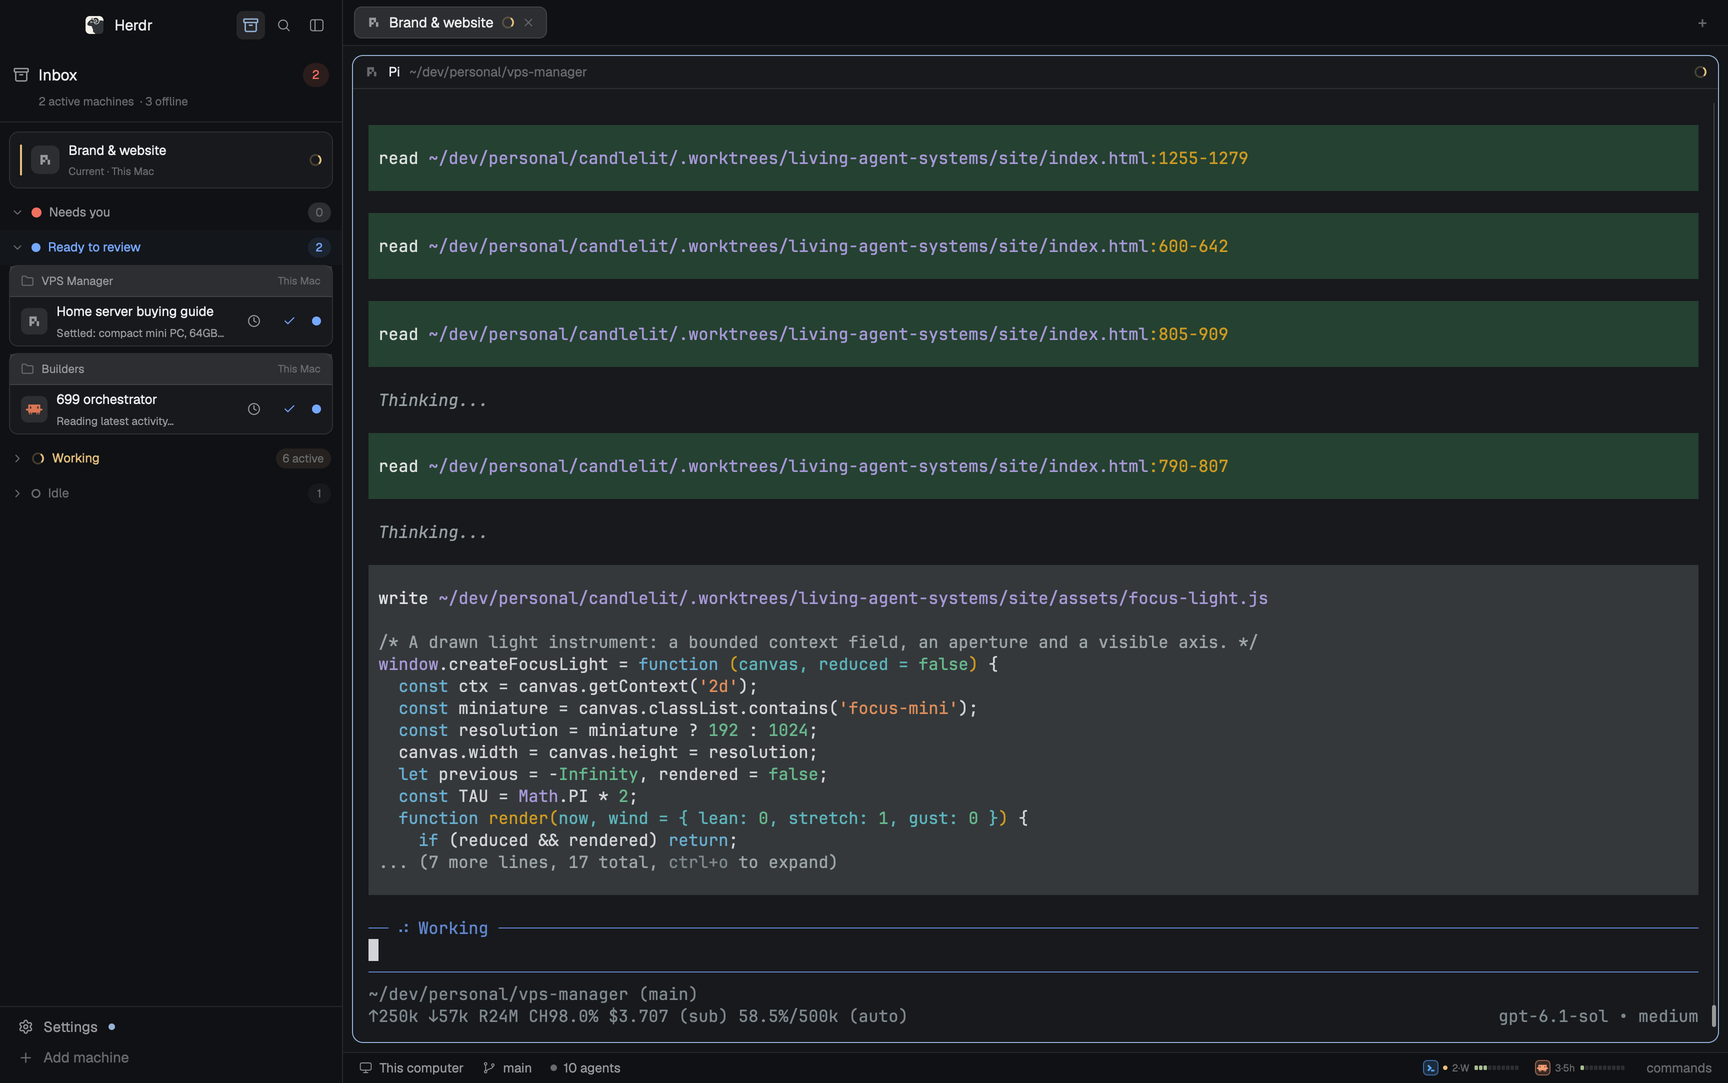
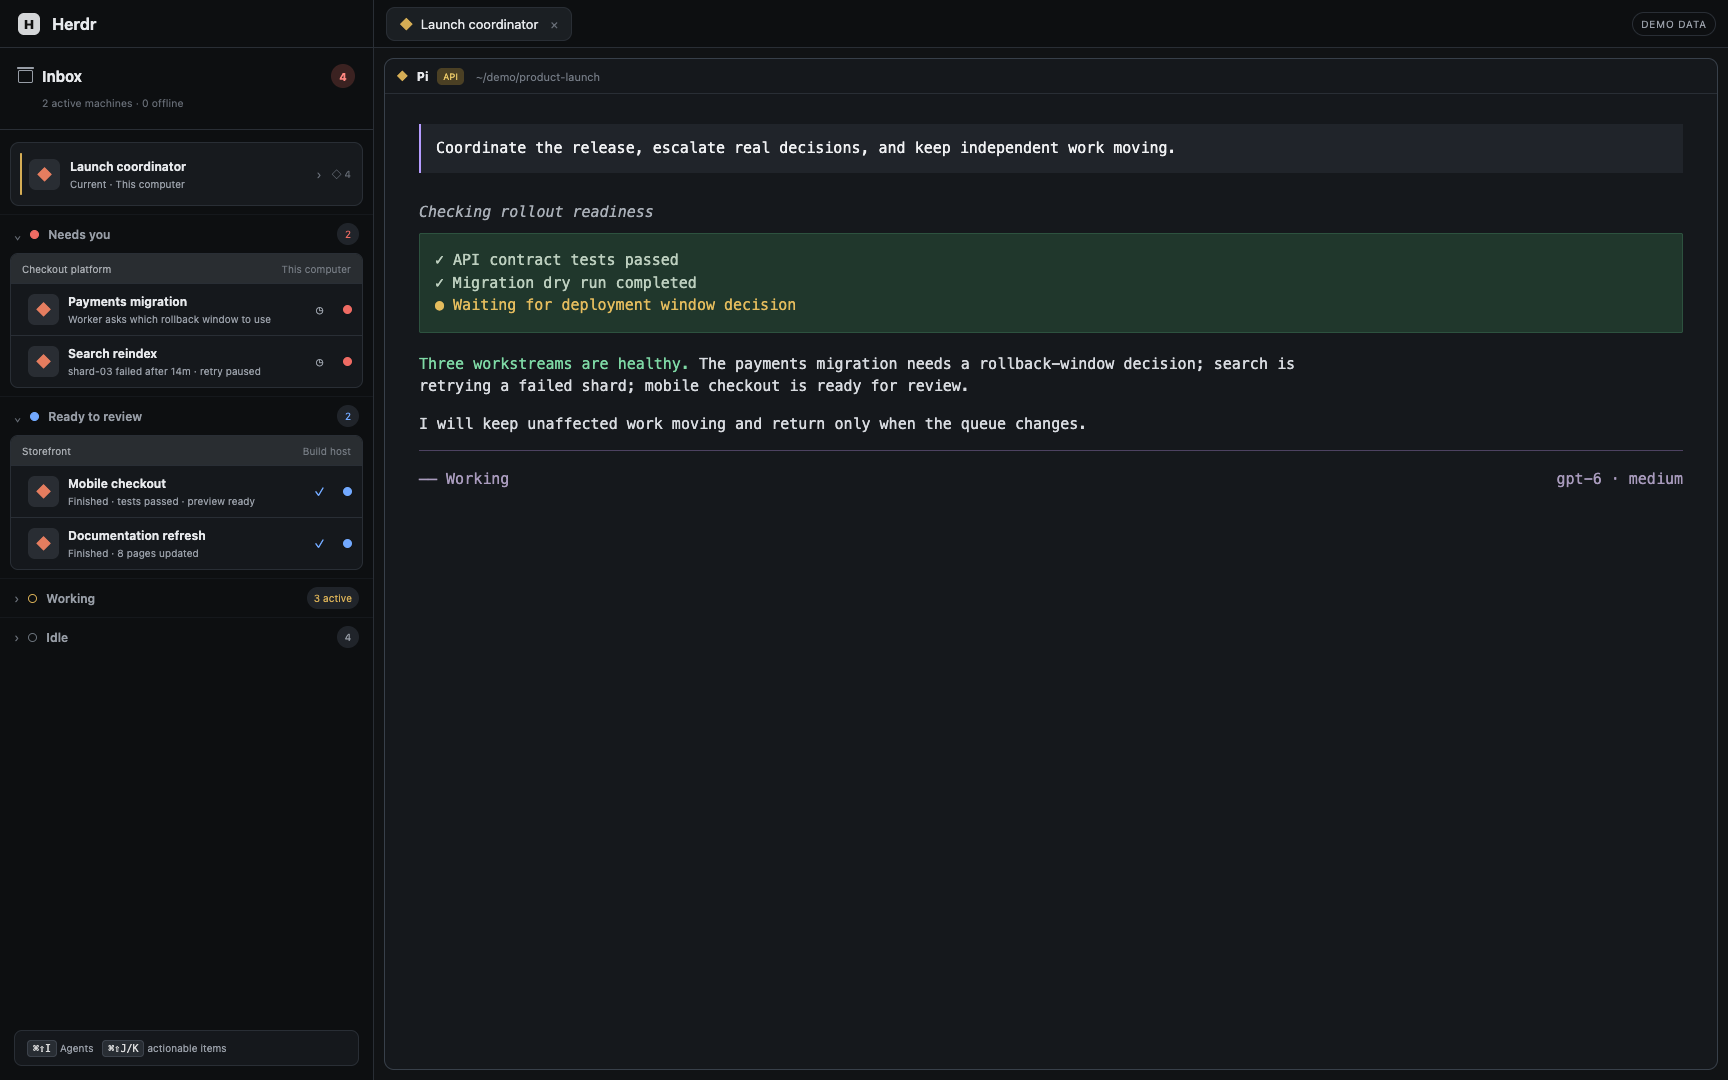
docs: add synthetic state gallery

diff --git a/art/demo.html b/art/demo.html
@@ -1,0 +1,26 @@
+<!doctype html>
+<html lang="en">
+<head>
+<meta charset="utf-8">
+<meta name="viewport" content="width=device-width,initial-scale=1">
+<title>Herdr Orchestrator Inbox — demo</title>
+<style>
+:root{--bg:#111315;--chrome:#0d0f11;--surface:#171a1e;--raised:#20242a;--border:#292e35;--line:#343a43;--fg:#e7e9ec;--muted:#979da6;--dim:#656b74;--red:#ef6b63;--blue:#72a9ff;--amber:#d5ad55;--green:#66c38f;--violet:#b59cff;--sidebar:374px}*{box-sizing:border-box}html,body{margin:0;width:100%;height:100%;overflow:hidden;background:#090a0c;color:var(--fg);font-family:Inter,-apple-system,BlinkMacSystemFont,"Segoe UI",sans-serif}.app{width:1728px;height:1080px;background:var(--bg);display:grid;grid-template-columns:var(--sidebar) 1fr;grid-template-rows:48px 1fr;box-shadow:0 30px 100px #000}.top-left,.top{background:var(--chrome);border-bottom:1px solid var(--border);display:flex;align-items:center}.top-left{padding:0 18px;gap:12px;border-right:1px solid var(--border)}.brand-mark{width:22px;height:22px;border-radius:6px;background:#d4d6d8;color:#111;display:grid;place-items:center;font-weight:900;font-size:13px}.brand{font-weight:650}.top{padding:0 12px;gap:8px}.tab{height:34px;padding:0 13px;border:1px solid var(--border);background:#1b1f23;border-radius:9px;display:flex;align-items:center;gap:8px;font-size:13px}.tab-icon{color:var(--amber)}.tab-close{color:var(--dim);margin-left:4px}.top-spacer{flex:1}.demo-pill{font-size:10px;letter-spacing:.08em;text-transform:uppercase;color:var(--muted);border:1px solid var(--border);border-radius:999px;padding:5px 8px}.sidebar{grid-column:1;grid-row:2;background:var(--chrome);border-right:1px solid var(--border);min-height:0;display:flex;flex-direction:column;position:relative}.inbox-head{height:82px;padding:16px 18px 12px;border-bottom:1px solid var(--border)}.head-row{display:flex;align-items:center}.head-title{display:flex;align-items:center;gap:9px;font-weight:650;font-size:15px}.archive{width:15px;height:13px;border:1.5px solid var(--muted);border-radius:2px;position:relative}.archive:before{content:"";position:absolute;left:-2px;right:-2px;top:-4px;height:2px;background:var(--muted);border-radius:2px}.attention-total{margin-left:auto;min-width:24px;height:24px;border-radius:12px;background:#3b2221;color:#ff8881;display:grid;place-items:center;font-size:11px;font-weight:700}.machine-count{margin:9px 0 0 24px;font-size:10.5px;color:var(--dim)}.current{margin:12px 10px 8px;height:64px;border:1px solid var(--border);border-radius:9px;background:#171a1e;display:flex;align-items:center;padding:0 11px;gap:10px;position:relative}.current:before{content:"";position:absolute;left:9px;top:10px;bottom:10px;width:2px;border-radius:2px;background:var(--amber)}.agent-icon{width:31px;height:31px;border-radius:7px;background:#292d33;display:grid;place-items:center;margin-left:7px;color:#e57d5f;font-size:15px;flex:0 0 auto}.row-copy{min-width:0;flex:1}.row-title{font-size:12px;font-weight:650;white-space:nowrap;overflow:hidden;text-overflow:ellipsis}.row-sub{font-size:10px;color:var(--muted);margin-top:4px;white-space:nowrap;overflow:hidden;text-overflow:ellipsis}.chev{color:var(--dim);font-size:12px}.child-count{font-size:10px;color:var(--dim);display:flex;align-items:center;gap:4px}.section{border-top:1px solid #15181c}.section-head{height:38px;padding:0 14px;display:flex;align-items:center;gap:9px;color:var(--muted);font-size:12px}.section-head strong{font-weight:600}.section-head .count{margin-left:auto;min-width:22px;height:22px;padding:0 7px;border-radius:11px;background:var(--raised);display:grid;place-items:center;font-size:10px}.dot{width:9px;height:9px;border-radius:50%;border:1.5px solid currentColor;flex:0 0 auto}.dot.fill{background:currentColor}.red{color:var(--red)}.blue{color:var(--blue)}.amber{color:var(--amber)}.idle{color:#69717a}.group{margin:0 10px 8px;border:1px solid var(--border);border-radius:8px;overflow:hidden;background:#15181c}.group-label{height:29px;background:#292d31;padding:0 11px;display:flex;align-items:center;font-size:10px;color:#a7abb0}.group-machine{margin-left:auto;color:#747a82}.agent-row{height:52px;padding:0 10px;display:flex;align-items:center;gap:9px;border-top:1px solid var(--border);position:relative}.agent-row:first-of-type{border-top:0}.status-action{width:25px;height:25px;border-radius:6px;display:grid;place-items:center;color:var(--muted);border:1px solid transparent;font-size:12px}.status-action.review{color:var(--blue)}.status-action.clock:before{content:"◷"}.status-action.review:before{content:"✓"}.status-dot{width:9px;height:9px;border-radius:50%;background:currentColor;margin-left:2px}.collapsed-note{font-size:10px;color:var(--dim);margin-left:auto}.children{margin:0 10px 9px 53px;border-left:1px solid var(--line)}.child{height:35px;display:flex;align-items:center;gap:8px;padding:0 9px;color:var(--muted);font-size:10.5px;position:relative}.child:before{content:"";position:absolute;left:-1px;top:17px;width:10px;border-top:1px solid var(--line)}.child .dot{width:7px;height:7px}.terminal{grid-column:2;grid-row:2;min-width:0;background:#111315;padding:10px}.pane{height:100%;border:1px solid #38404a;border-radius:10px;overflow:hidden;background:#15181c;display:flex;flex-direction:column}.pane-head{height:35px;border-bottom:1px solid var(--border);display:flex;align-items:center;padding:0 12px;gap:9px;font-size:11px;color:var(--muted)}.pane-head strong{color:var(--fg);font-size:12px}.api{font-size:9px;background:#4b4024;color:#e8c766;border-radius:5px;padding:3px 6px}.path{margin-left:3px;color:#727983}.pane-body{flex:1;padding:30px 34px 22px;font-family:"SFMono-Regular",Consolas,"Liberation Mono",monospace;font-size:15px;line-height:1.5;color:#d8dbe0;overflow:hidden}.prompt{border-left:2px solid var(--violet);background:#20242a;padding:13px 15px;margin-bottom:28px;color:#f0f1f3}.tool-label{font-style:italic;color:#a9afb7;margin:22px 0 10px}.tool{background:#20372c;border:1px solid #2d523f;border-radius:2px;padding:15px;margin:0 0 18px;color:#bdcfbf}.success{color:#7ed9a5}.accent{color:#bfa7ff}.warn{color:#e4bc5d}.terminal-copy{margin-top:20px;max-width:910px}.terminal-copy p{margin:0 0 15px}.terminal-footer{margin-top:auto;border-top:1px solid #4d4261;color:#a99bbd;padding-top:17px;display:flex;justify-content:space-between}.retained{position:absolute;inset:0;background:#0008;display:grid;place-items:center}.dialog{width:1120px;height:760px;background:#111417;border:1px solid #424a55;border-radius:12px;box-shadow:0 30px 90px #000b;display:flex;flex-direction:column;overflow:hidden}.dialog-head{height:55px;border-bottom:1px solid var(--border);display:flex;align-items:center;padding:0 16px;gap:11px}.dialog-head .archive{margin-left:2px}.dialog-title{font-size:13px;font-weight:650}.dialog-sub{font-size:10px;color:var(--dim);margin-top:3px}.dialog-close{margin-left:auto;color:var(--muted);font-size:20px}.dialog-body{padding:22px 26px;font-family:"SFMono-Regular",Consolas,monospace;font-size:13px;line-height:1.55;color:#cfd3d8;white-space:pre-wrap}.agents-list{padding:12px 10px}.tree-space{font-size:10px;color:#6f757d;margin:16px 10px 8px}.tree-agent{height:39px;display:flex;align-items:center;gap:9px;padding:0 10px;border-radius:7px;color:#d7d9dd;font-size:11.5px}.tree-agent.selected{background:#24282e}.indent1{margin-left:22px}.indent2{margin-left:44px}.tree-line{width:9px;border-top:1px solid #454b53}.hint{margin:auto 14px 14px;padding:11px 12px;border:1px solid var(--border);border-radius:8px;background:#15181c;font-size:10px;color:var(--muted)}.hint kbd{background:#282d33;border:1px solid #3c424b;border-radius:4px;padding:2px 5px;color:#ddd}.action-menu{position:absolute;z-index:4;top:294px;right:18px;width:210px;background:#20242a;border:1px solid #464d57;border-radius:9px;box-shadow:0 16px 42px #000b;padding:6px}.action-menu:before{content:"";position:absolute;top:-6px;right:15px;width:10px;height:10px;background:#20242a;border-left:1px solid #464d57;border-top:1px solid #464d57;transform:rotate(45deg)}.menu-title{padding:7px 9px 5px;color:#717781;text-transform:uppercase;letter-spacing:.08em;font-size:9px}.menu-item{height:33px;border-radius:6px;display:flex;align-items:center;padding:0 9px;gap:9px;font-size:11px;color:#d6d9dd}.menu-item:first-of-type{background:#2b3037}.menu-icon{width:15px;color:#aeb4bc;text-align:center}.menu-shortcut{margin-left:auto;color:#737a84;font-size:9px}
+</style>
+</head>
+<body>
+<div class="app" id="app"></div>
+<script>
+const scene=new URLSearchParams(location.search).get('scene')||'inbox';
+const icon='<div class="agent-icon">◆</div>';
+const row=(title,sub,color,action='clock')=>`<div class="agent-row">${icon}<div class="row-copy"><div class="row-title">${title}</div><div class="row-sub">${sub}</div></div><div class="status-action ${action}"></div><span class="status-dot ${color}"></span></div>`;
+const shell=(sidebar,overlay='')=>`<div class="top-left"><div class="brand-mark">H</div><div class="brand">Herdr</div></div><div class="top"><div class="tab"><span class="tab-icon">◆</span> Launch coordinator <span class="tab-close">×</span></div><div class="top-spacer"></div><div class="demo-pill">Demo data</div></div>${sidebar}<main class="terminal"><div class="pane"><div class="pane-head"><span class="tab-icon">◆</span><strong>Pi</strong><span class="api">API</span><span class="path">~/demo/product-launch</span></div><div class="pane-body"><div class="prompt">Coordinate the release, escalate real decisions, and keep independent work moving.</div><div class="tool-label">Checking rollout readiness</div><div class="tool">✓ API contract tests passed<br>✓ Migration dry run completed<br><span class="warn">● Waiting for deployment window decision</span></div><div class="terminal-copy"><p><span class="success">Three workstreams are healthy.</span> The payments migration needs a rollback-window decision; search is retrying a failed shard; mobile checkout is ready for review.</p><p>I will keep unaffected work moving and return only when the queue changes.</p></div><div class="terminal-footer"><span>── Working</span><span>gpt-6 · medium</span></div></div></div></main>${overlay}`;
+function inbox(children=false){return `<aside class="sidebar"><div class="inbox-head"><div class="head-row"><div class="head-title"><span class="archive"></span>Inbox</div><div class="attention-total">4</div></div><div class="machine-count">2 active machines · 0 offline</div></div><div class="current">${icon}<div class="row-copy"><div class="row-title">Launch coordinator</div><div class="row-sub">Current · This computer</div></div><span class="chev">›</span><span class="child-count">◇ 4</span></div>${children?`<div class="children"><div class="child"><span class="dot fill amber"></span>api-contracts · working</div><div class="child"><span class="dot fill red"></span>payments-migration · blocked</div><div class="child"><span class="dot fill blue"></span>mobile-checkout · finished</div><div class="child"><span class="dot idle"></span>release-notes · idle</div></div>`:''}<section class="section"><div class="section-head"><span class="chev">⌄</span><span class="dot fill red"></span><strong>Needs you</strong><span class="count red">2</span></div><div class="group"><div class="group-label">Checkout platform <span class="group-machine">This computer</span></div>${row('Payments migration','Worker asks which rollback window to use','red')}${row('Search reindex','shard-03 failed after 14m · retry paused','red')}</div></section><section class="section"><div class="section-head"><span class="chev">⌄</span><span class="dot fill blue"></span><strong>Ready to review</strong><span class="count blue">2</span></div><div class="group"><div class="group-label">Storefront <span class="group-machine">Build host</span></div>${row('Mobile checkout','Finished · tests passed · preview ready','blue','review')}${row('Documentation refresh','Finished · 8 pages updated','blue','review')}</div></section><section class="section"><div class="section-head"><span class="chev">›</span><span class="dot amber"></span><strong>Working</strong><span class="count amber">3 active</span></div></section><section class="section"><div class="section-head"><span class="chev">›</span><span class="dot idle"></span><strong>Idle</strong><span class="count">4</span></div></section><div class="hint"><kbd>⌘⇧I</kbd> Agents &nbsp; <kbd>⌘⇧J/K</kbd> actionable items</div></aside>`}
+function agents(){return `<aside class="sidebar"><div class="inbox-head"><div class="head-row"><div class="head-title">◇ Agents</div></div><div class="machine-count">Managed terminal tree</div></div><div class="agents-list"><div class="tree-space">Checkout platform</div><div class="tree-agent selected"><span class="dot amber"></span>Launch coordinator</div><div class="tree-agent indent1"><span class="tree-line"></span><span class="dot amber"></span>api-contracts</div><div class="tree-agent indent1"><span class="tree-line"></span><span class="dot red fill"></span>payments-migration</div><div class="tree-agent indent2"><span class="tree-line"></span><span class="dot amber"></span>schema-check</div><div class="tree-agent indent1"><span class="tree-line"></span><span class="dot blue fill"></span>mobile-checkout</div><div class="tree-space">Operations</div><div class="tree-agent"><span class="dot amber"></span>Search reindex</div><div class="tree-agent indent1"><span class="tree-line"></span><span class="dot red fill"></span>shard-03</div></div><div class="hint"><kbd>⌘⇧I</kbd> Return to Inbox</div></aside>`}
+const overlay=`<div class="retained"><div class="dialog"><div class="dialog-head"><span class="archive"></span><div><div class="dialog-title">Mobile checkout</div><div class="dialog-sub">Retained session · demo/session-04</div></div><div class="dialog-close">×</div></div><div class="dialog-body"><span class="success">✓ Build completed</span>\n<span class="success">✓ 42 tests passed</span>\n<span class="success">✓ Preview deployed</span>\n\nChanged\n  src/checkout/payment-sheet.tsx\n  src/checkout/payment-sheet.test.tsx\n  docs/mobile-checkout.md\n\nReview notes\n  • Preserves the existing desktop flow\n  • Adds accessible mobile focus order\n  • No migration required\n\nReady for review.</div></div></div>`;
+const actions=`<div class="action-menu"><div class="menu-title">Handle this item</div><div class="menu-item"><span class="menu-icon">✓</span>Acknowledge<span class="menu-shortcut">until activity</span></div><div class="menu-item"><span class="menu-icon">◷</span>Snooze<span class="menu-shortcut">5 minutes</span></div><div class="menu-item"><span class="menu-icon">◷</span>Snooze<span class="menu-shortcut">1 hour</span></div><div class="menu-item"><span class="menu-icon">↗</span>Open without handling</div></div>`;
+const actionSidebar=inbox(false).replace('</aside>',actions+'</aside>');
+app.innerHTML=scene==='agents'?shell(agents()):scene==='retained'?shell(inbox(false),overlay):scene==='actions'?shell(actionSidebar):shell(inbox(scene==='children'));
+</script>
+</body>
+</html>

diff --git a/README.md b/README.md
@@ -2,7 +2,9 @@
 
 A terminal-first Herdr layout for supervising root orchestrators as an attention queue.
 
-![Herdr Orchestrator Inbox](preview.png)
+![Herdr Orchestrator Inbox showing every root queue state with synthetic demo data](preview.png)
+
+> All screenshots use synthetic names, paths, tasks, and terminal output. They demonstrate product states without exposing a real Herdr workspace.
 
 The Inbox answers two questions quickly: **why does this need me?** and **how do I clear it?** Root orchestrators appear under Needs you, Ready to review, Working, or Idle. Managed children stay nested beneath their root instead of becoming peer queue items.
 
@@ -18,9 +20,19 @@ The Inbox answers two questions quickly: **why does this need me?** and **how do
 - `⌘⇧J` / `⌘⇧K` cycle only actionable Inbox roots
 - Compact rail when the Herdr sidebar is collapsed
 
-<picture>
-  <img alt="Orchestrator Inbox sidebar" src="screenshots/inbox-sidebar.png" width="350">
-</picture>
+## State gallery
+
+| Explicit triage | Managed children |
+|---|---|
+| [![A Needs you row with acknowledge and snooze actions](screenshots/triage-actions.png)](screenshots/triage-actions.png) | [![A root orchestrator with working, blocked, finished, and idle children](screenshots/managed-children.png)](screenshots/managed-children.png) |
+| **Acknowledge, snooze, or open without handling.** | **Children stay nested while their live state informs the root.** |
+
+| Retained review | Agents tree |
+|---|---|
+| [![A read-only retained session transcript](screenshots/retained-transcript.png)](screenshots/retained-transcript.png) | [![The all-agent tree with synthetic roots and descendants](screenshots/agents-view.png)](screenshots/agents-view.png) |
+| **Finished sessions open in a bounded, read-only transcript.** | **Toggle to every managed agent without changing the terminal workspace.** |
+
+The main preview demonstrates Needs you, Ready to review, Working, and Idle together. The gallery adds every child state, explicit handling actions, retained-session review, and the all-agent tree.
 
 ## Requirements
 
@@ -113,6 +125,14 @@ The uninstaller backs up the affected files, removes only this package's layout/
 ```bash
 ./scripts/test.sh
 ```
+
+The screenshot source is `art/demo.html`. Regenerate the fully synthetic gallery with:
+
+```bash
+./scripts/capture-screenshots.sh
+```
+
+This requires `agent-browser`; it never reads your Herdr configuration or sessions.
 
 See [Getting started](docs/getting-started.md), [RECIPE.md](RECIPE.md) for the behavioral specification, and [CONTRIBUTING.md](CONTRIBUTING.md) for contribution guidance.
 
